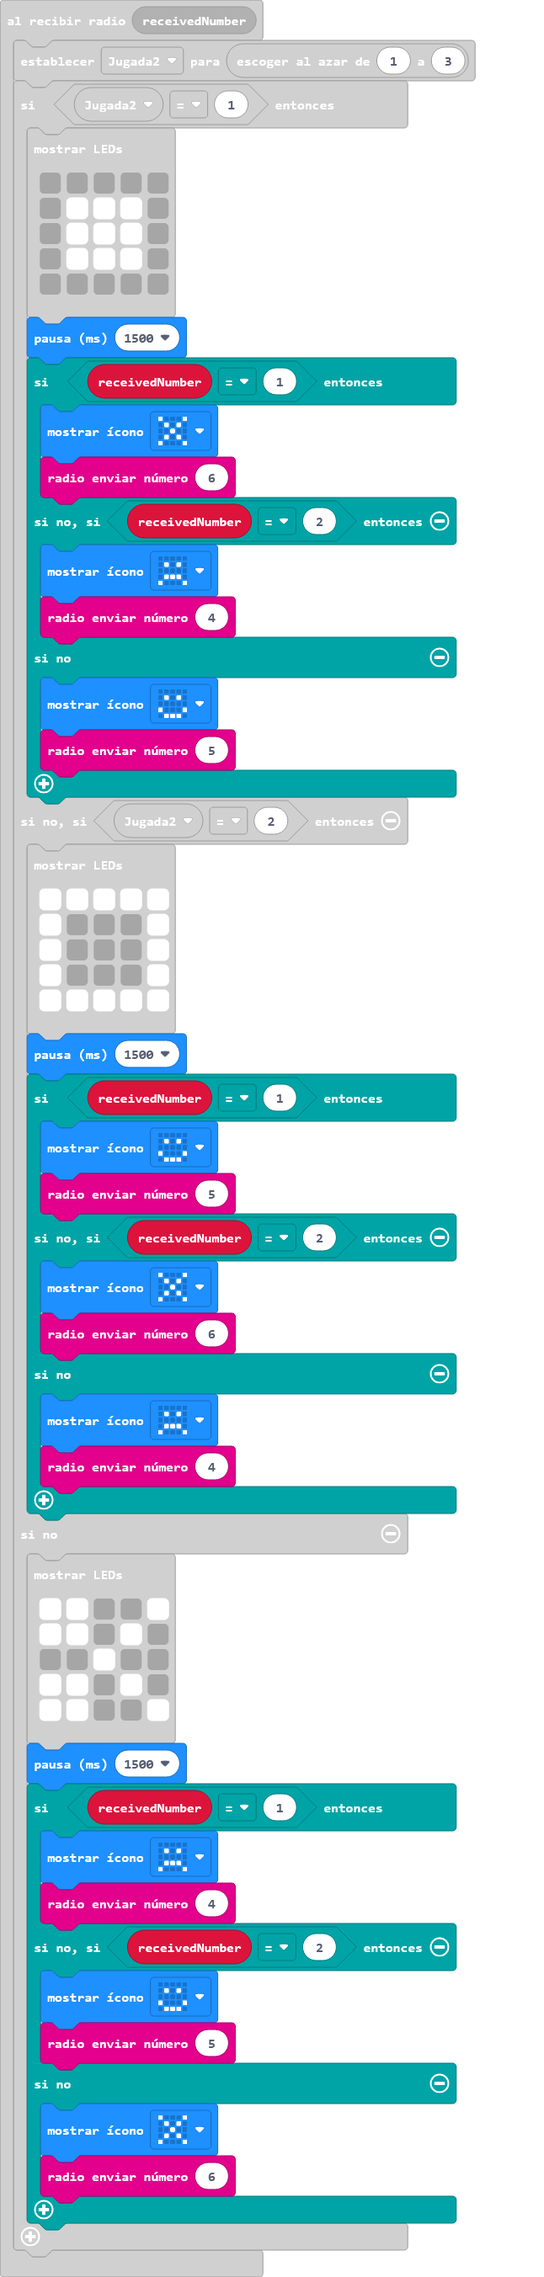
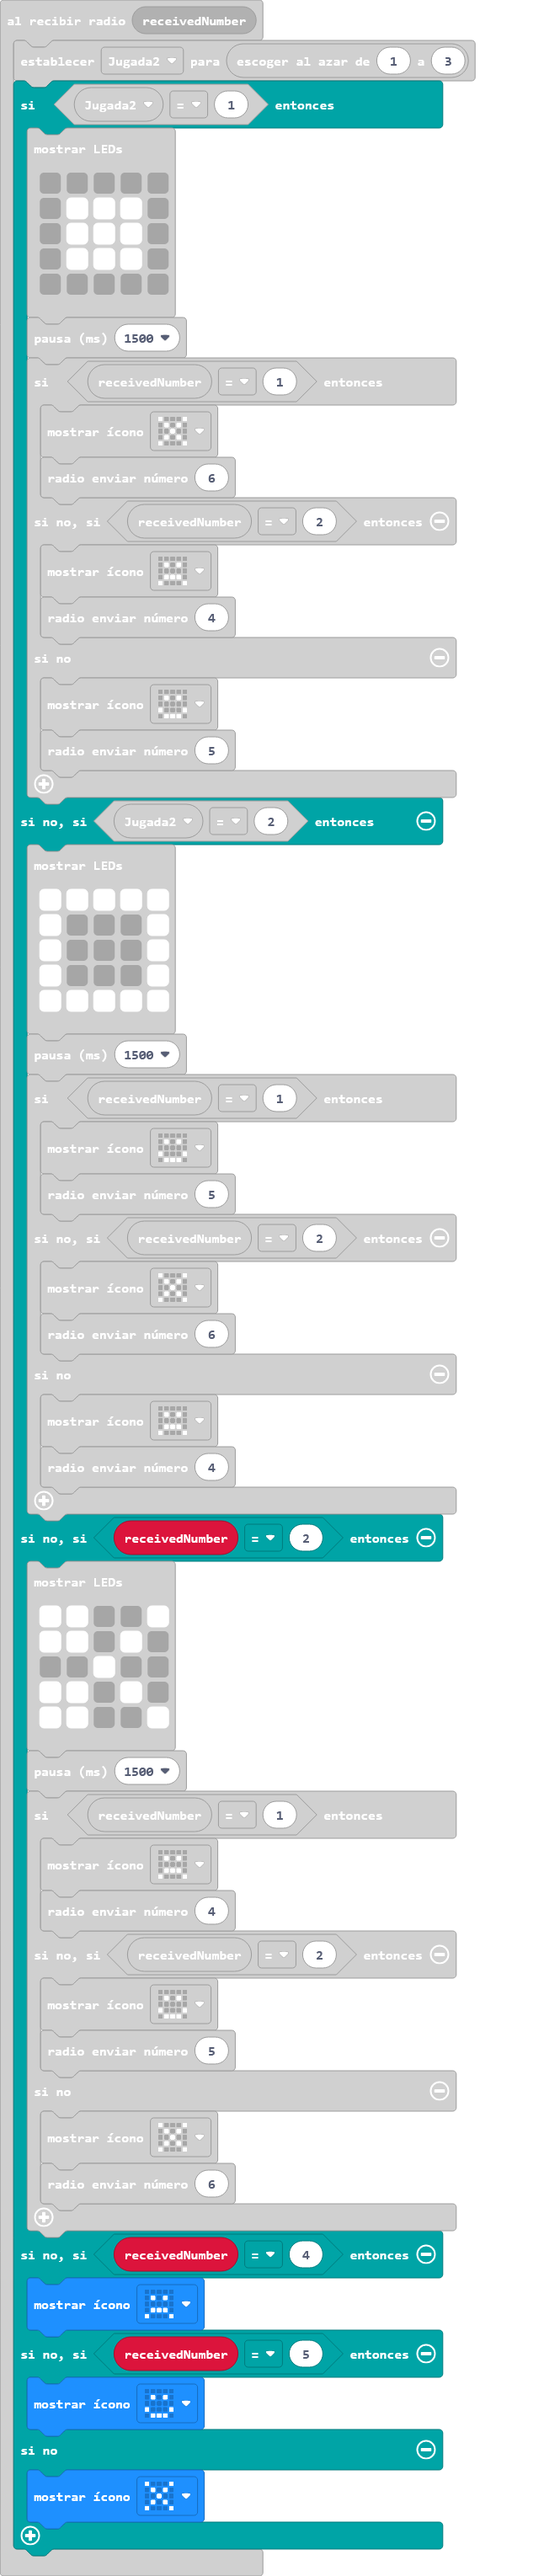
Actualizar main.blocks, main.ts

diff --git a/main.ts b/main.ts
@@ -38,7 +38,7 @@ radio.onReceivedNumber(function (receivedNumber) {
             basic.showIcon(IconNames.Sad)
             radio.sendNumber(4)
         }
-    } else {
+    } else if (receivedNumber == 2) {
         basic.showLeds(`
             # # . . #
             # # . # .
@@ -57,6 +57,12 @@ radio.onReceivedNumber(function (receivedNumber) {
             basic.showIcon(IconNames.No)
             radio.sendNumber(6)
         }
+    } else if (receivedNumber == 4) {
+        basic.showIcon(IconNames.Sad)
+    } else if (receivedNumber == 5) {
+        basic.showIcon(IconNames.Happy)
+    } else {
+        basic.showIcon(IconNames.No)
     }
 })
 input.onGesture(Gesture.Shake, function () {
